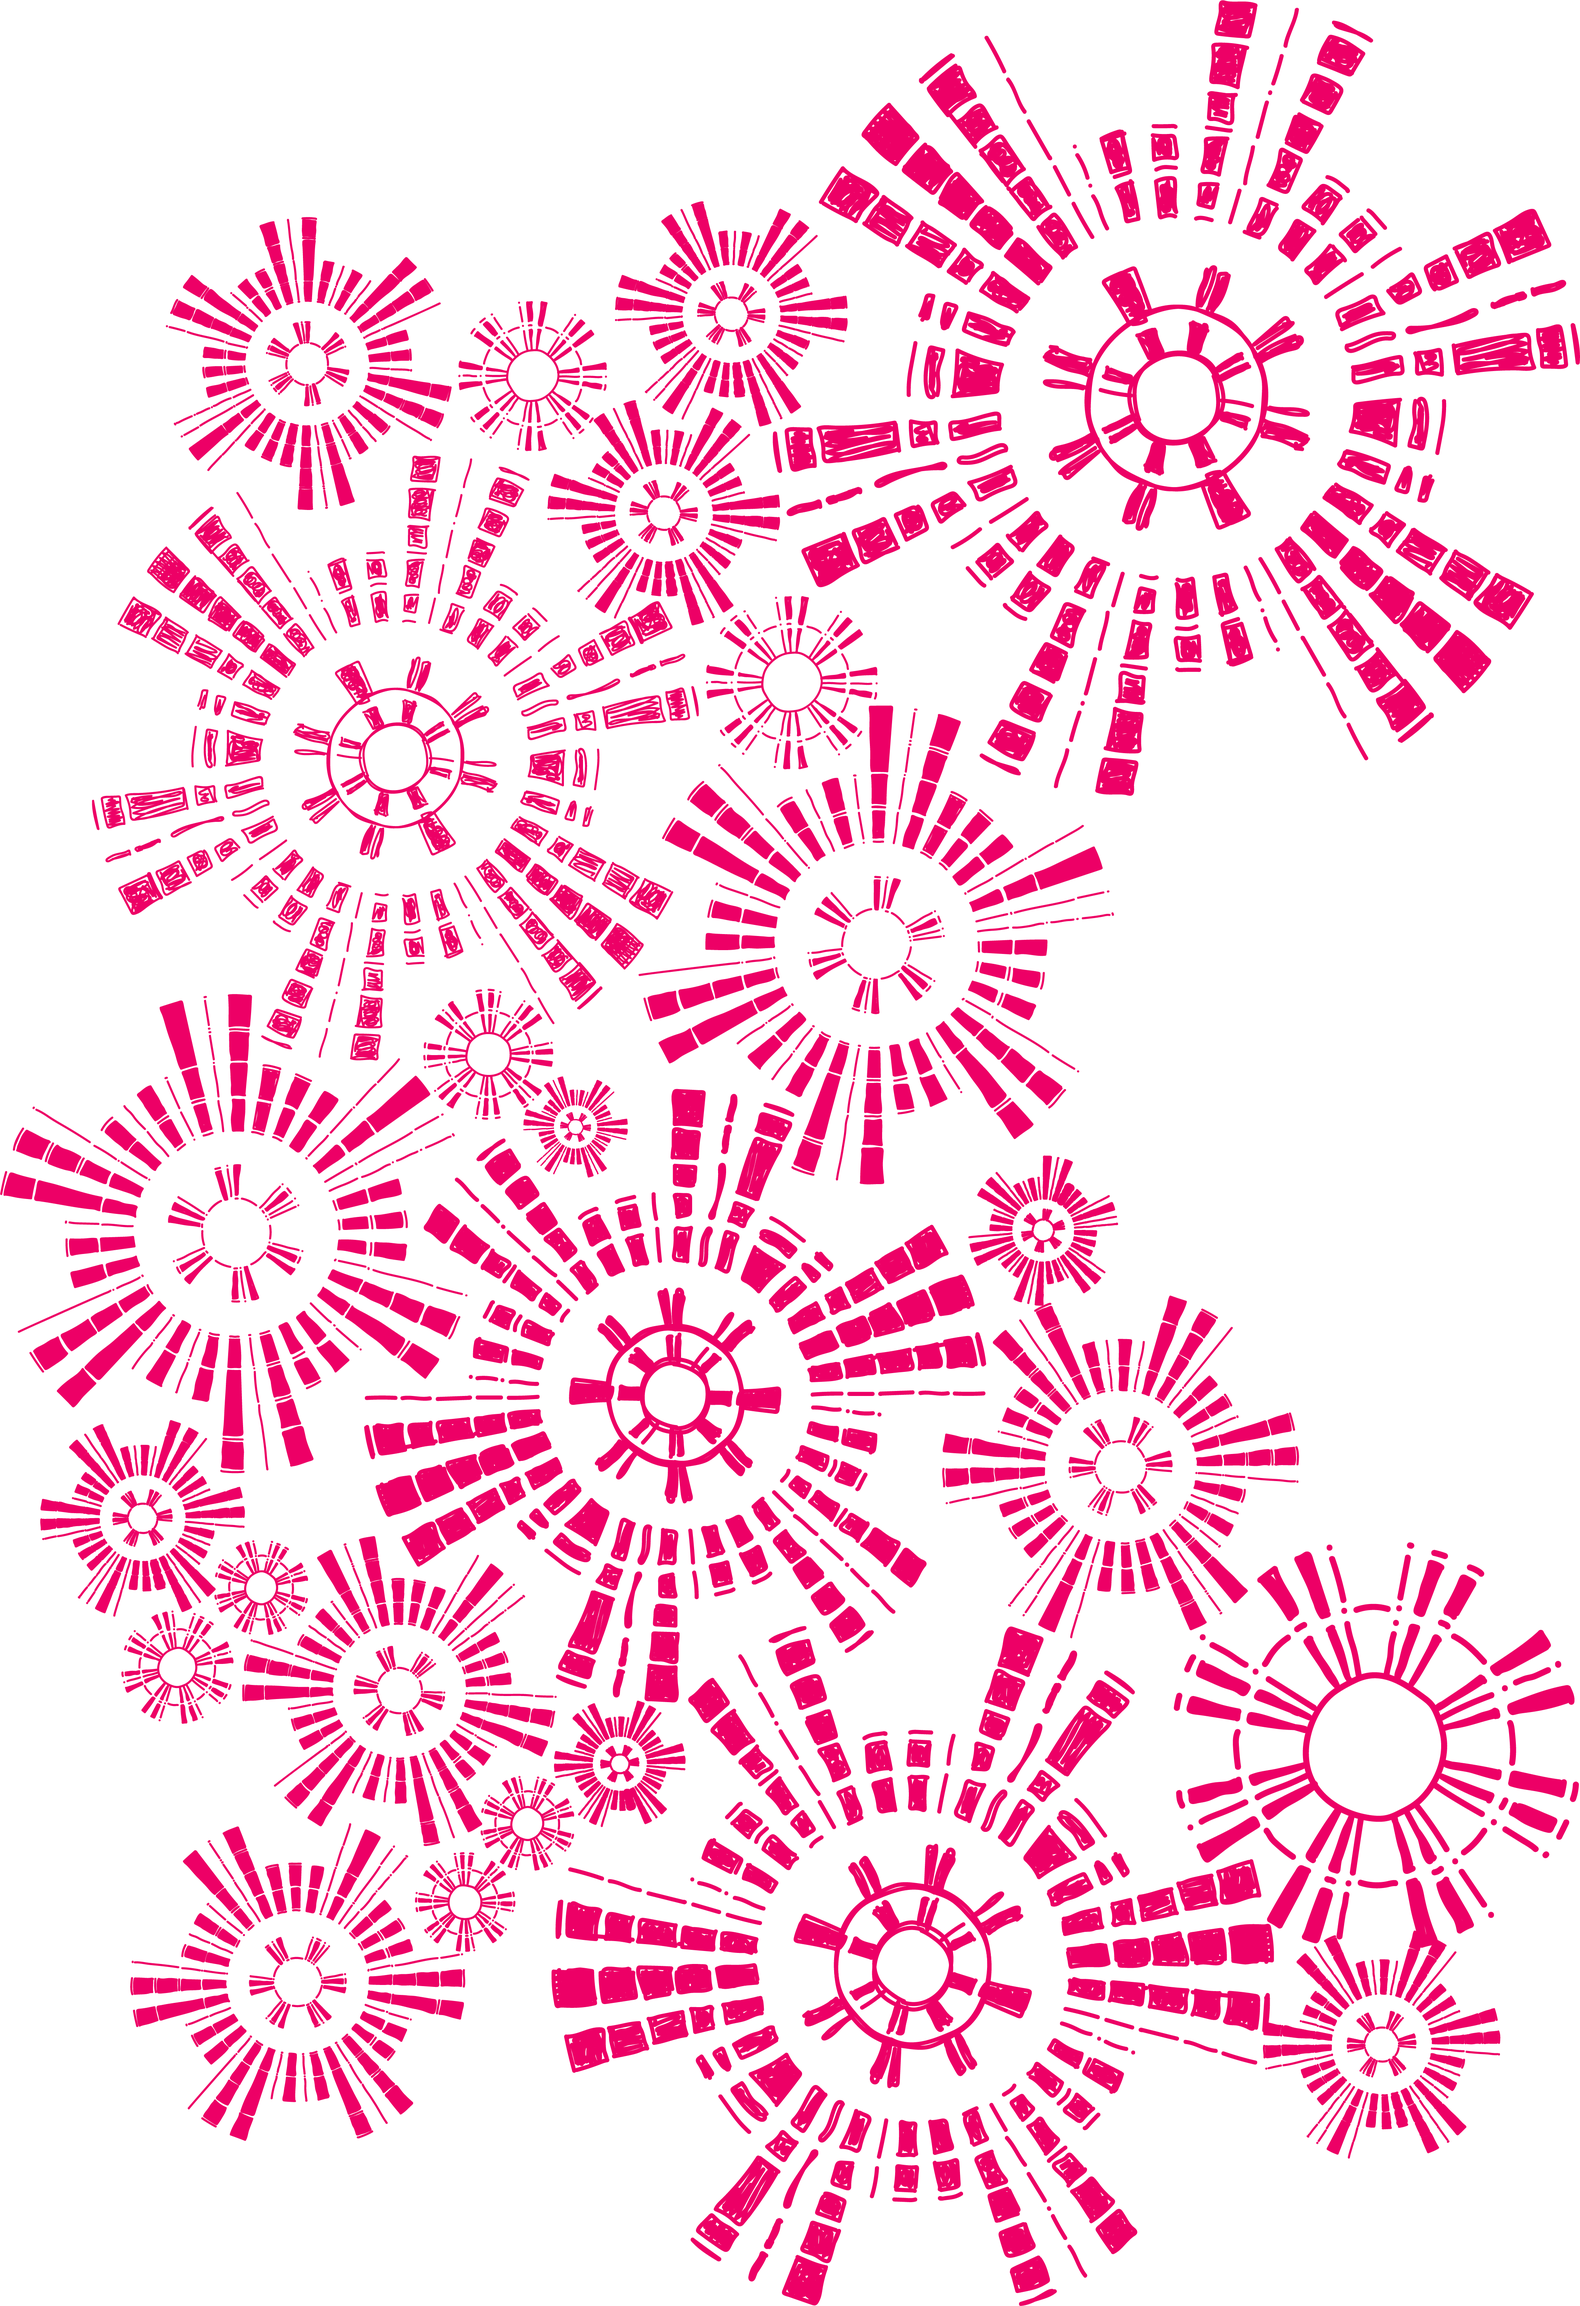
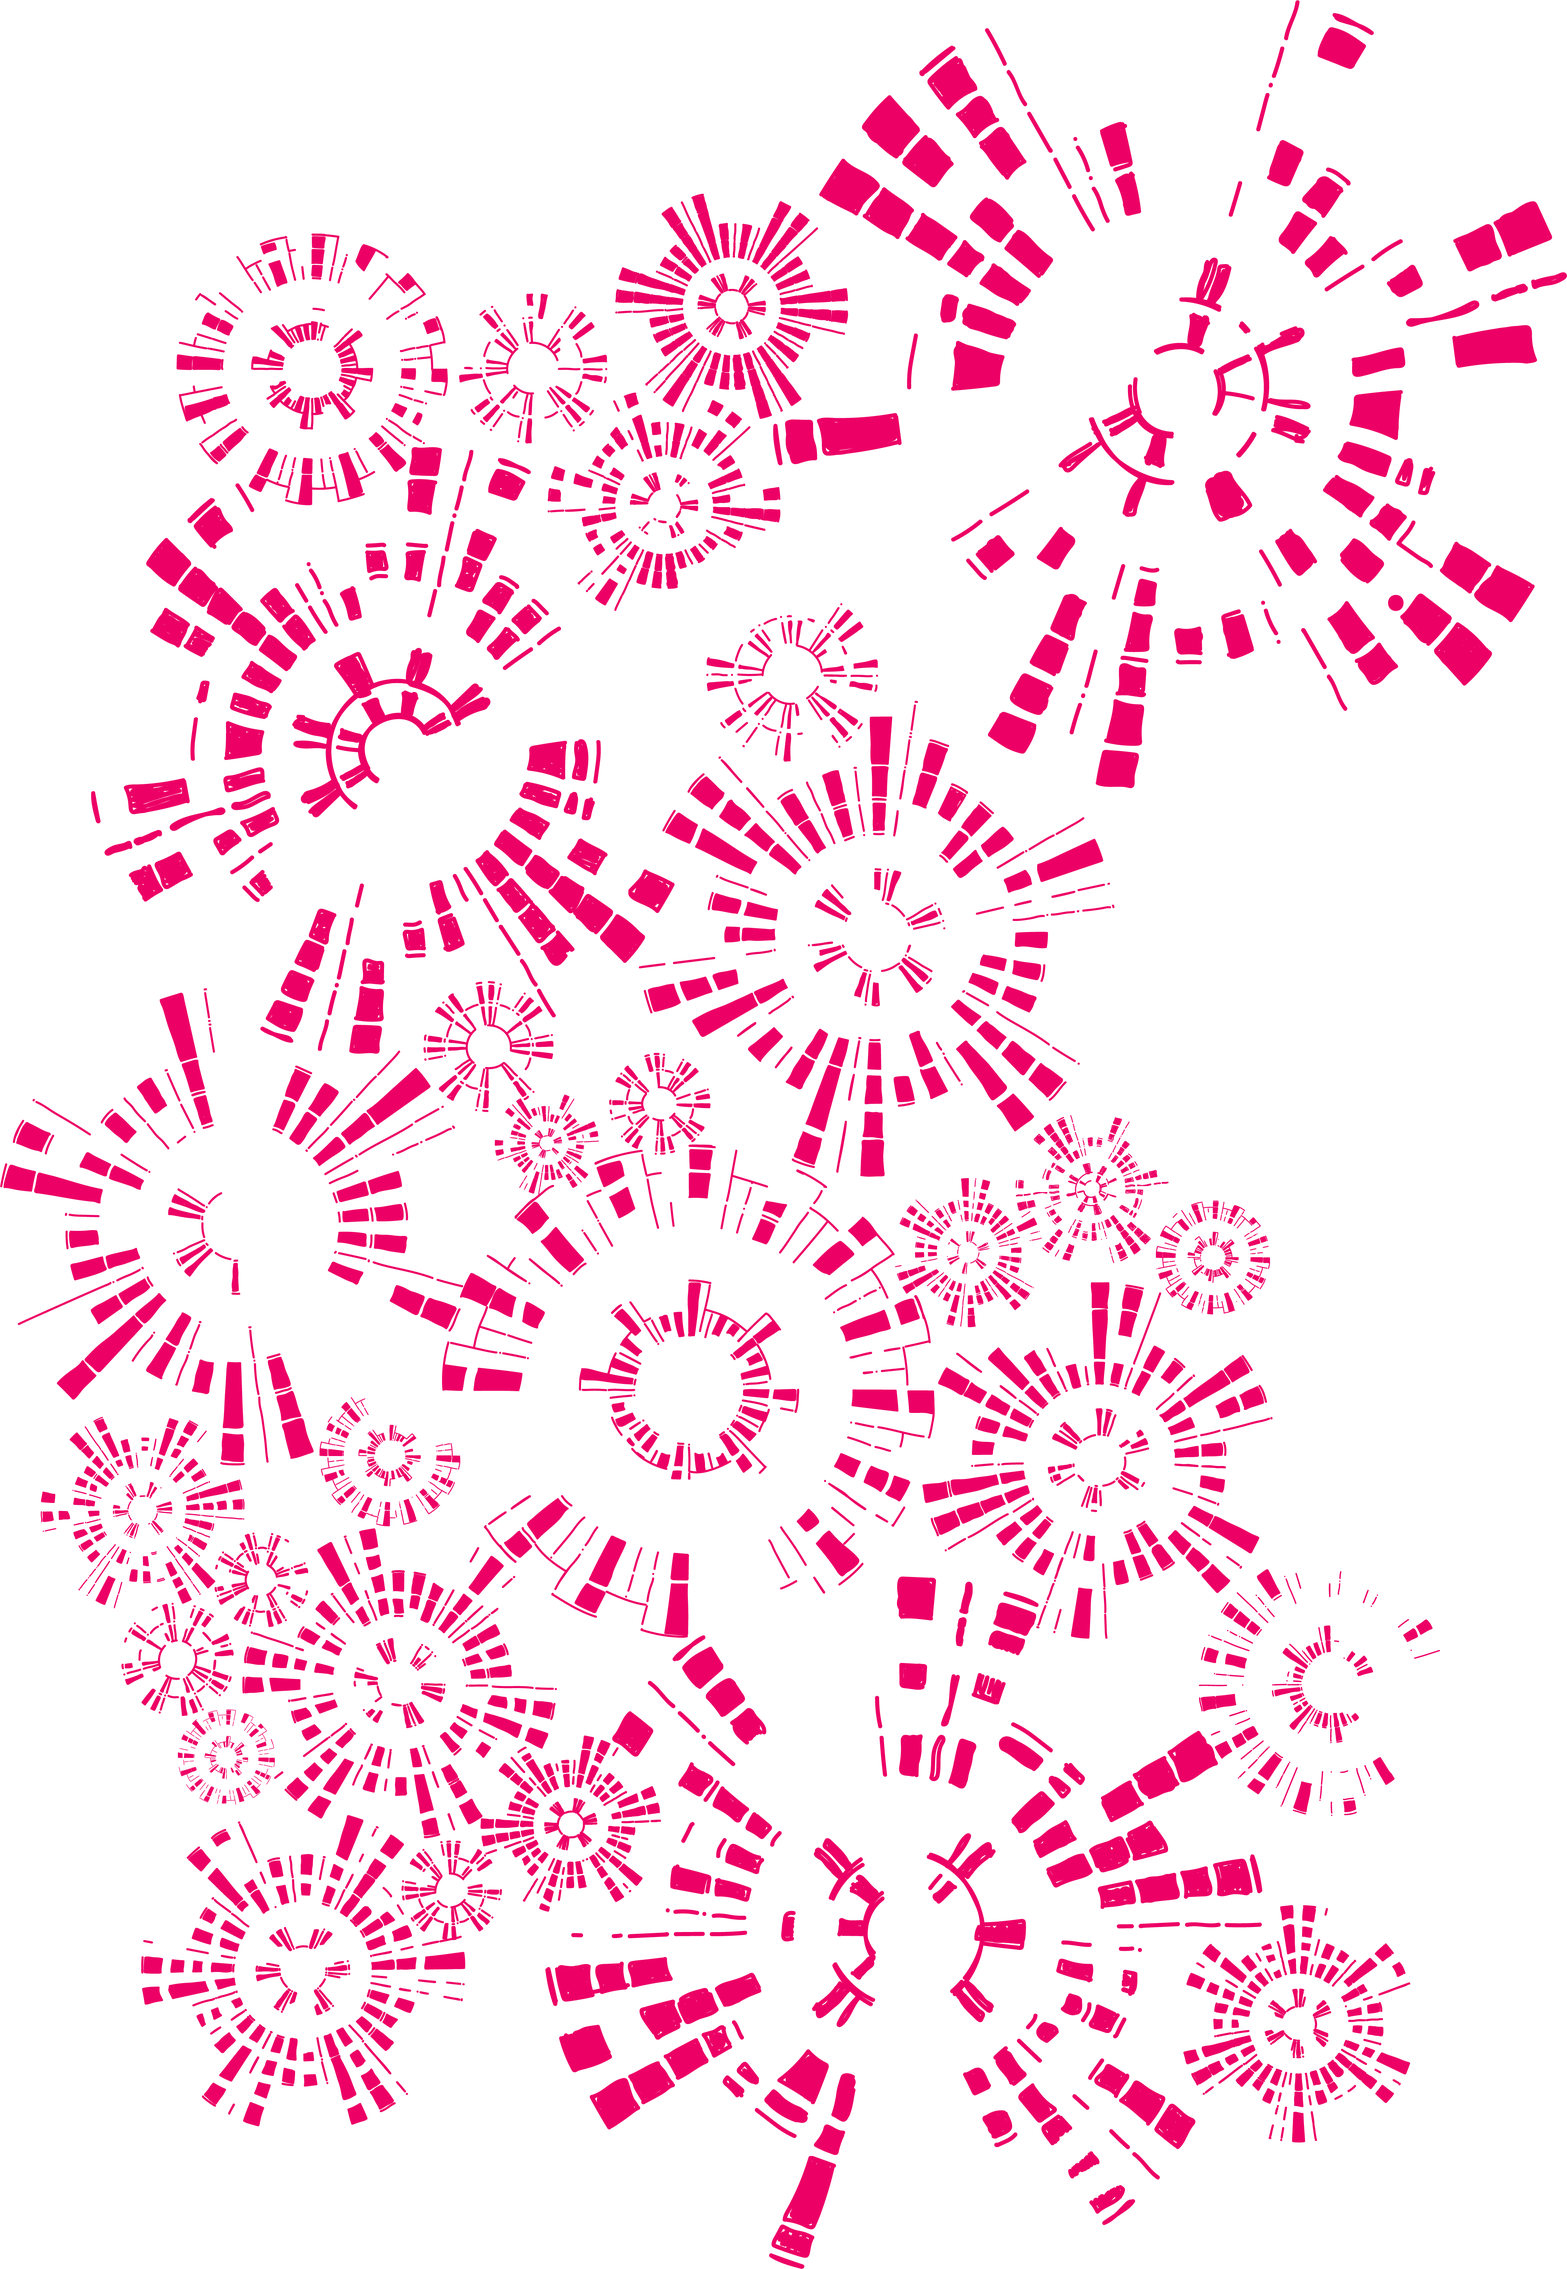
12/04/2025

Changed region(s): [[0.0, 0.0, 1.0, 1.0]]

diff --git a/index.html b/index.html
@@ -3,7 +3,7 @@
 <head>
     <meta charset="UTF-8">
     <meta name="viewport" content="width=device-width, initial-scale=1.0">
-    <title>Document</title>
+    <title>Paramètre écologique</title>
     <link href="style.css" rel="stylesheet" type="text/css">
     <link href="https://fonts.cdnfonts.com/css/ia-writer-quattro-s" rel="stylesheet">
 
@@ -30,6 +30,9 @@
                  <div> Concevoir une redirection des usages de nos smartphones <br class="desktop-only">vers une pratique de réglage plus écologique</div>
                 <br>
                  <a class="btn-lire-memoire" href="./template.php">Lire le mémoire</a>
+			   <br> <br>
+			   <div> Jules Claudel. 2023-2025.<br class="desktop-only">DSAA Design Interactif, Lycée Léonard de Vinci.<br class="desktop-only"> Villefontaine (38090)</div>
+			   
 
             </div>
 
@@ -39,7 +42,7 @@
 <br>
 
 <div class="bloc-abstract"> 
-    <div class="txt-abstract-1" style="font-weight: bold;"> Comment  rendre l’usage du téléphone plus écologique ? <br>Comment changer notre perception des technologies et du numérique ? <br>Est-il possible de régler nos usages comme on règles nos appareils ? </div> <div class="txt-abstract-2"> Au croisement de la sociologie des usages et de l’anthropologie des techniques, cette thèse de doctorat se penche sur la signification du smartphone pour ses usagers. Sur la base d’une ethnographie combinatoire menée à Genève, Los Angeles et Tokyo, elle décrit six « figures » de cet objet technique contemporain ; celles-ci correspondent aux expressions proposées par les informateurs durant l’enquête de terrain : la « laisse », la « prothèse », le « miroir », le « cocon », la « baguette magique » et la « coquille vide ». À leur manière, chacun de ces descripteurs permet d’aborder les enjeux et tensions actuels portés par le smartphone : crise de l’attention, externalisation de fonctions cognitives, sentiment de repli sur soi, délégation de la vie quotidienne, et obsolescence des techniques. En croisant ces multiples dimensions du smartphone, la thèse souligne le caractère résolument kaléidoscopique de ce nouvel « objet total », son rôle dans la reconfiguration de nos activités ordinaires, et le fait qu’il témoigne d’une évolution en cours de nos cultures matérielles </div>
+    <div class="txt-abstract-1" style="font-weight: bold;"> Comment  rendre l’usage du téléphone plus écologique ? <br>Comment changer notre perception des technologies et du numérique ? <br>Est-il possible de régler nos usages comme on règle nos appareils ? </div> <div class="txt-abstract-2"> Au croisement de la sociologie des usages et de l’anthropologie des techniques, cette thèse de doctorat se penche sur la signification du smartphone pour ses usagers. Sur la base d’une ethnographie combinatoire menée à Genève, Los Angeles et Tokyo, elle décrit six « figures » de cet objet technique contemporain ; celles-ci correspondent aux expressions proposées par les informateurs durant l’enquête de terrain : la « laisse », la « prothèse », le « miroir », le « cocon », la « baguette magique » et la « coquille vide ». À leur manière, chacun de ces descripteurs permet d’aborder les enjeux et tensions actuels portés par le smartphone : crise de l’attention, externalisation de fonctions cognitives, sentiment de repli sur soi, délégation de la vie quotidienne, et obsolescence des techniques. En croisant ces multiples dimensions du smartphone, la thèse souligne le caractère résolument kaléidoscopique de ce nouvel « objet total », son rôle dans la reconfiguration de nos activités ordinaires, et le fait qu’il témoigne d’une évolution en cours de nos cultures matérielles </div>
     <div class="br-zinz"></div>
     <div class="txt-abstract-1" style="font-weight: bold;"> Plan : </div>  <br>
     <div class="txt-abstract-1"> Introduction </div>  <br>
